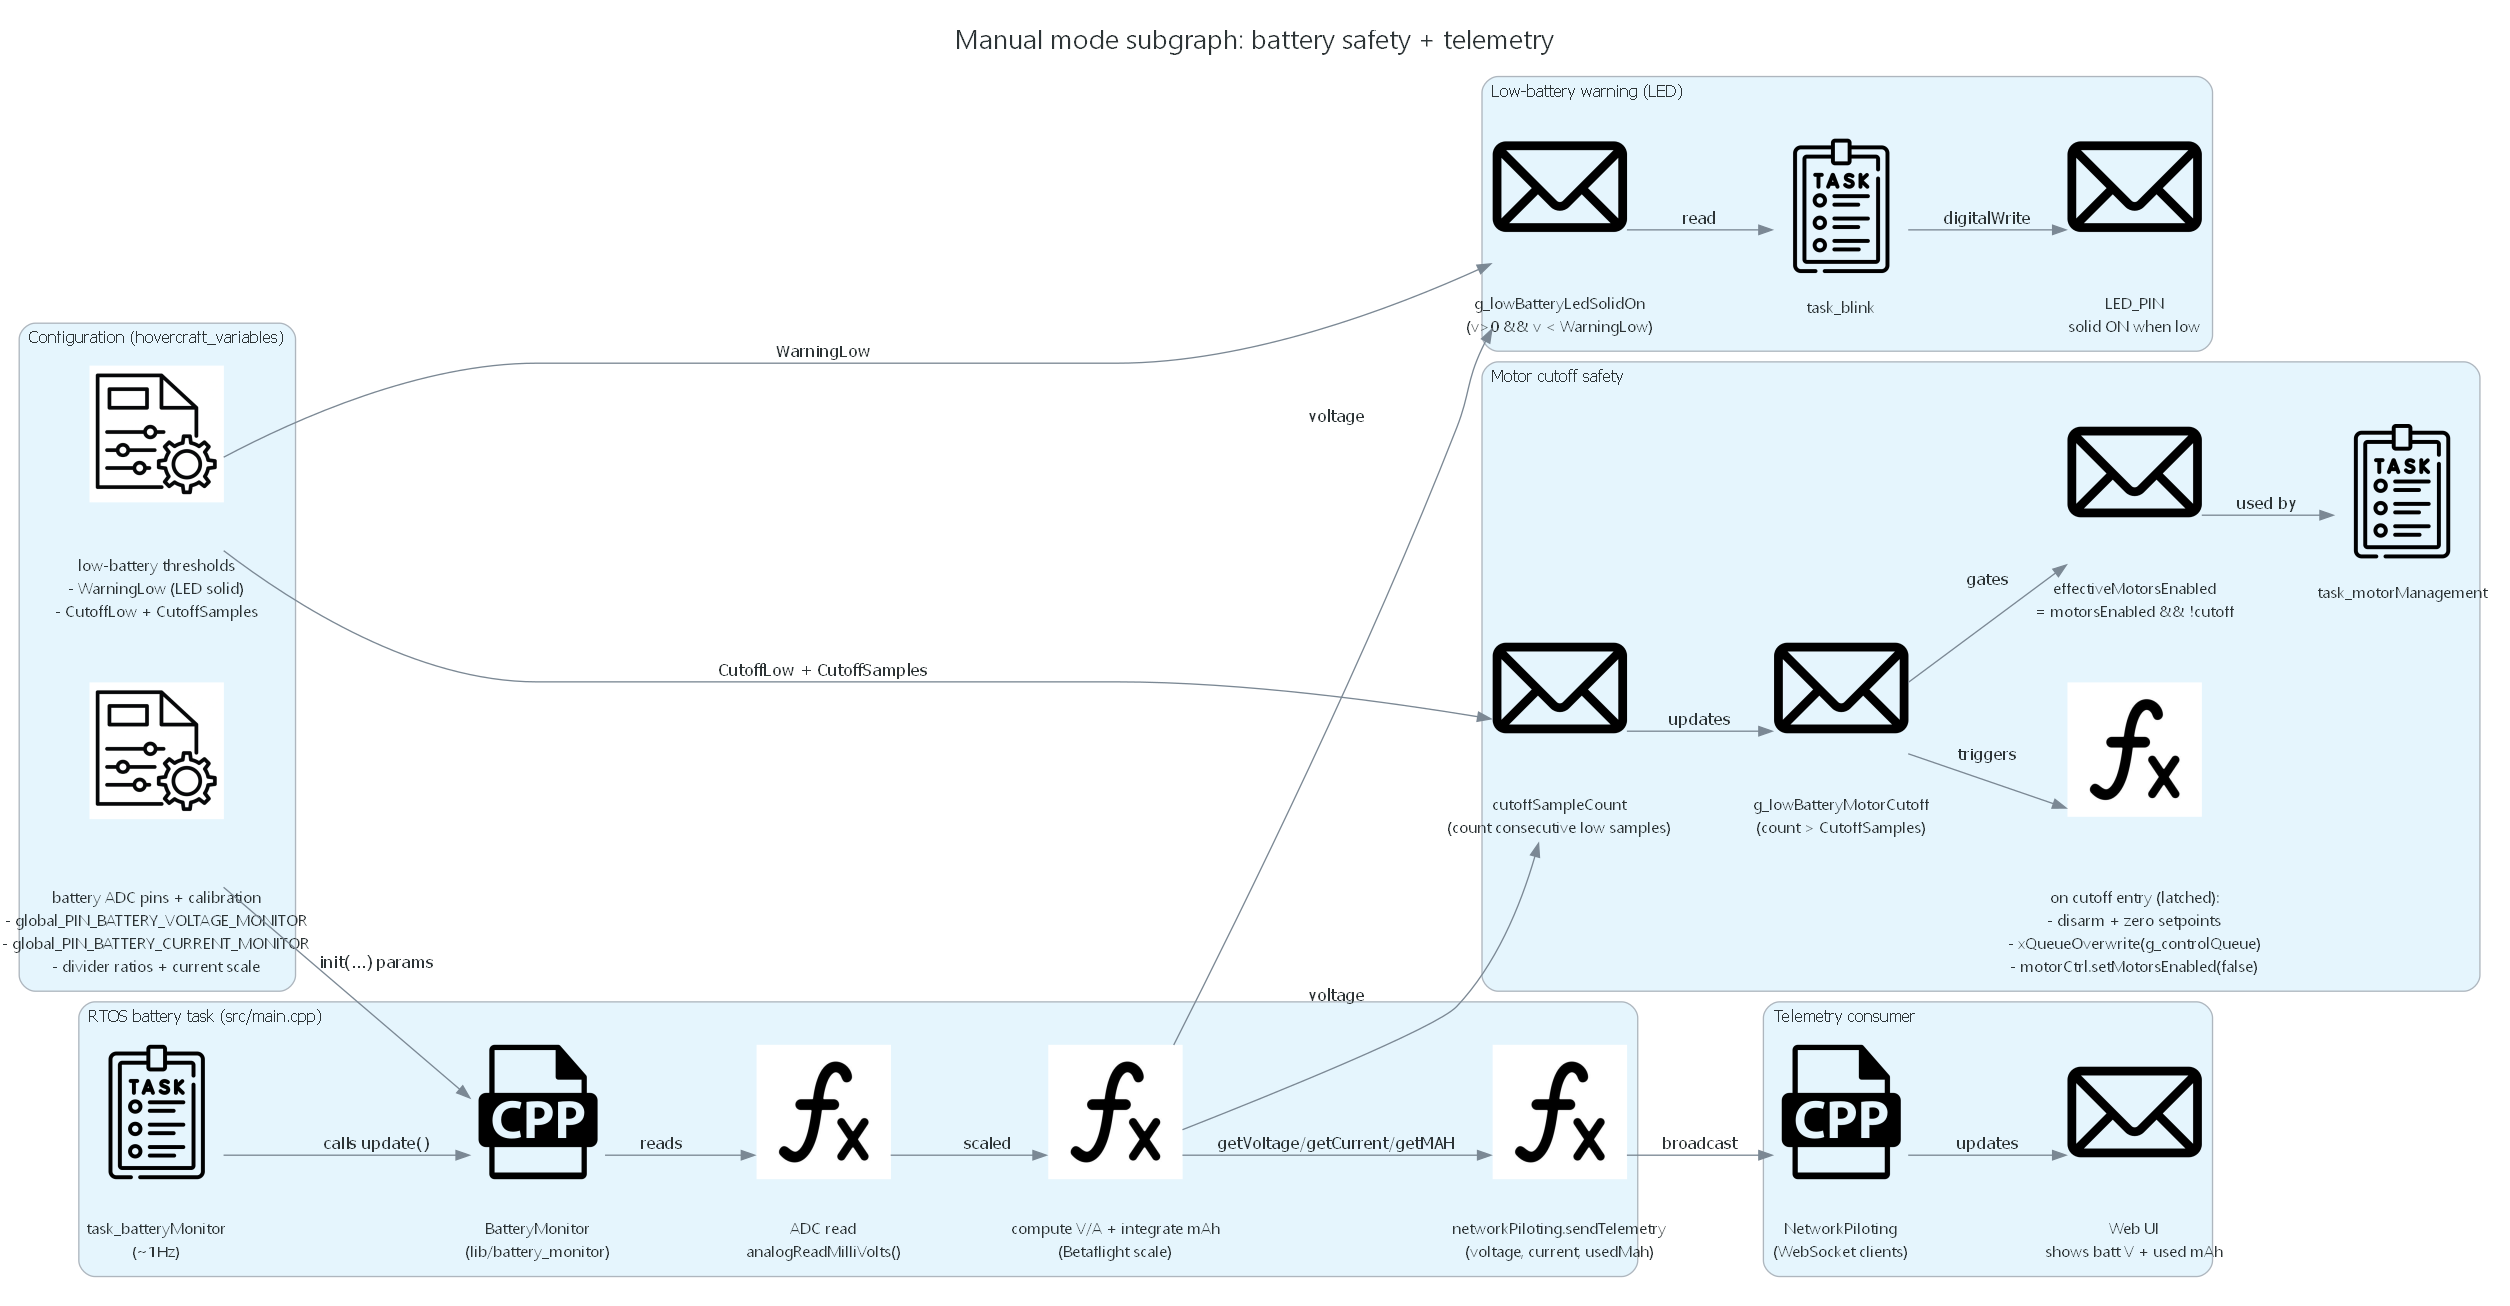
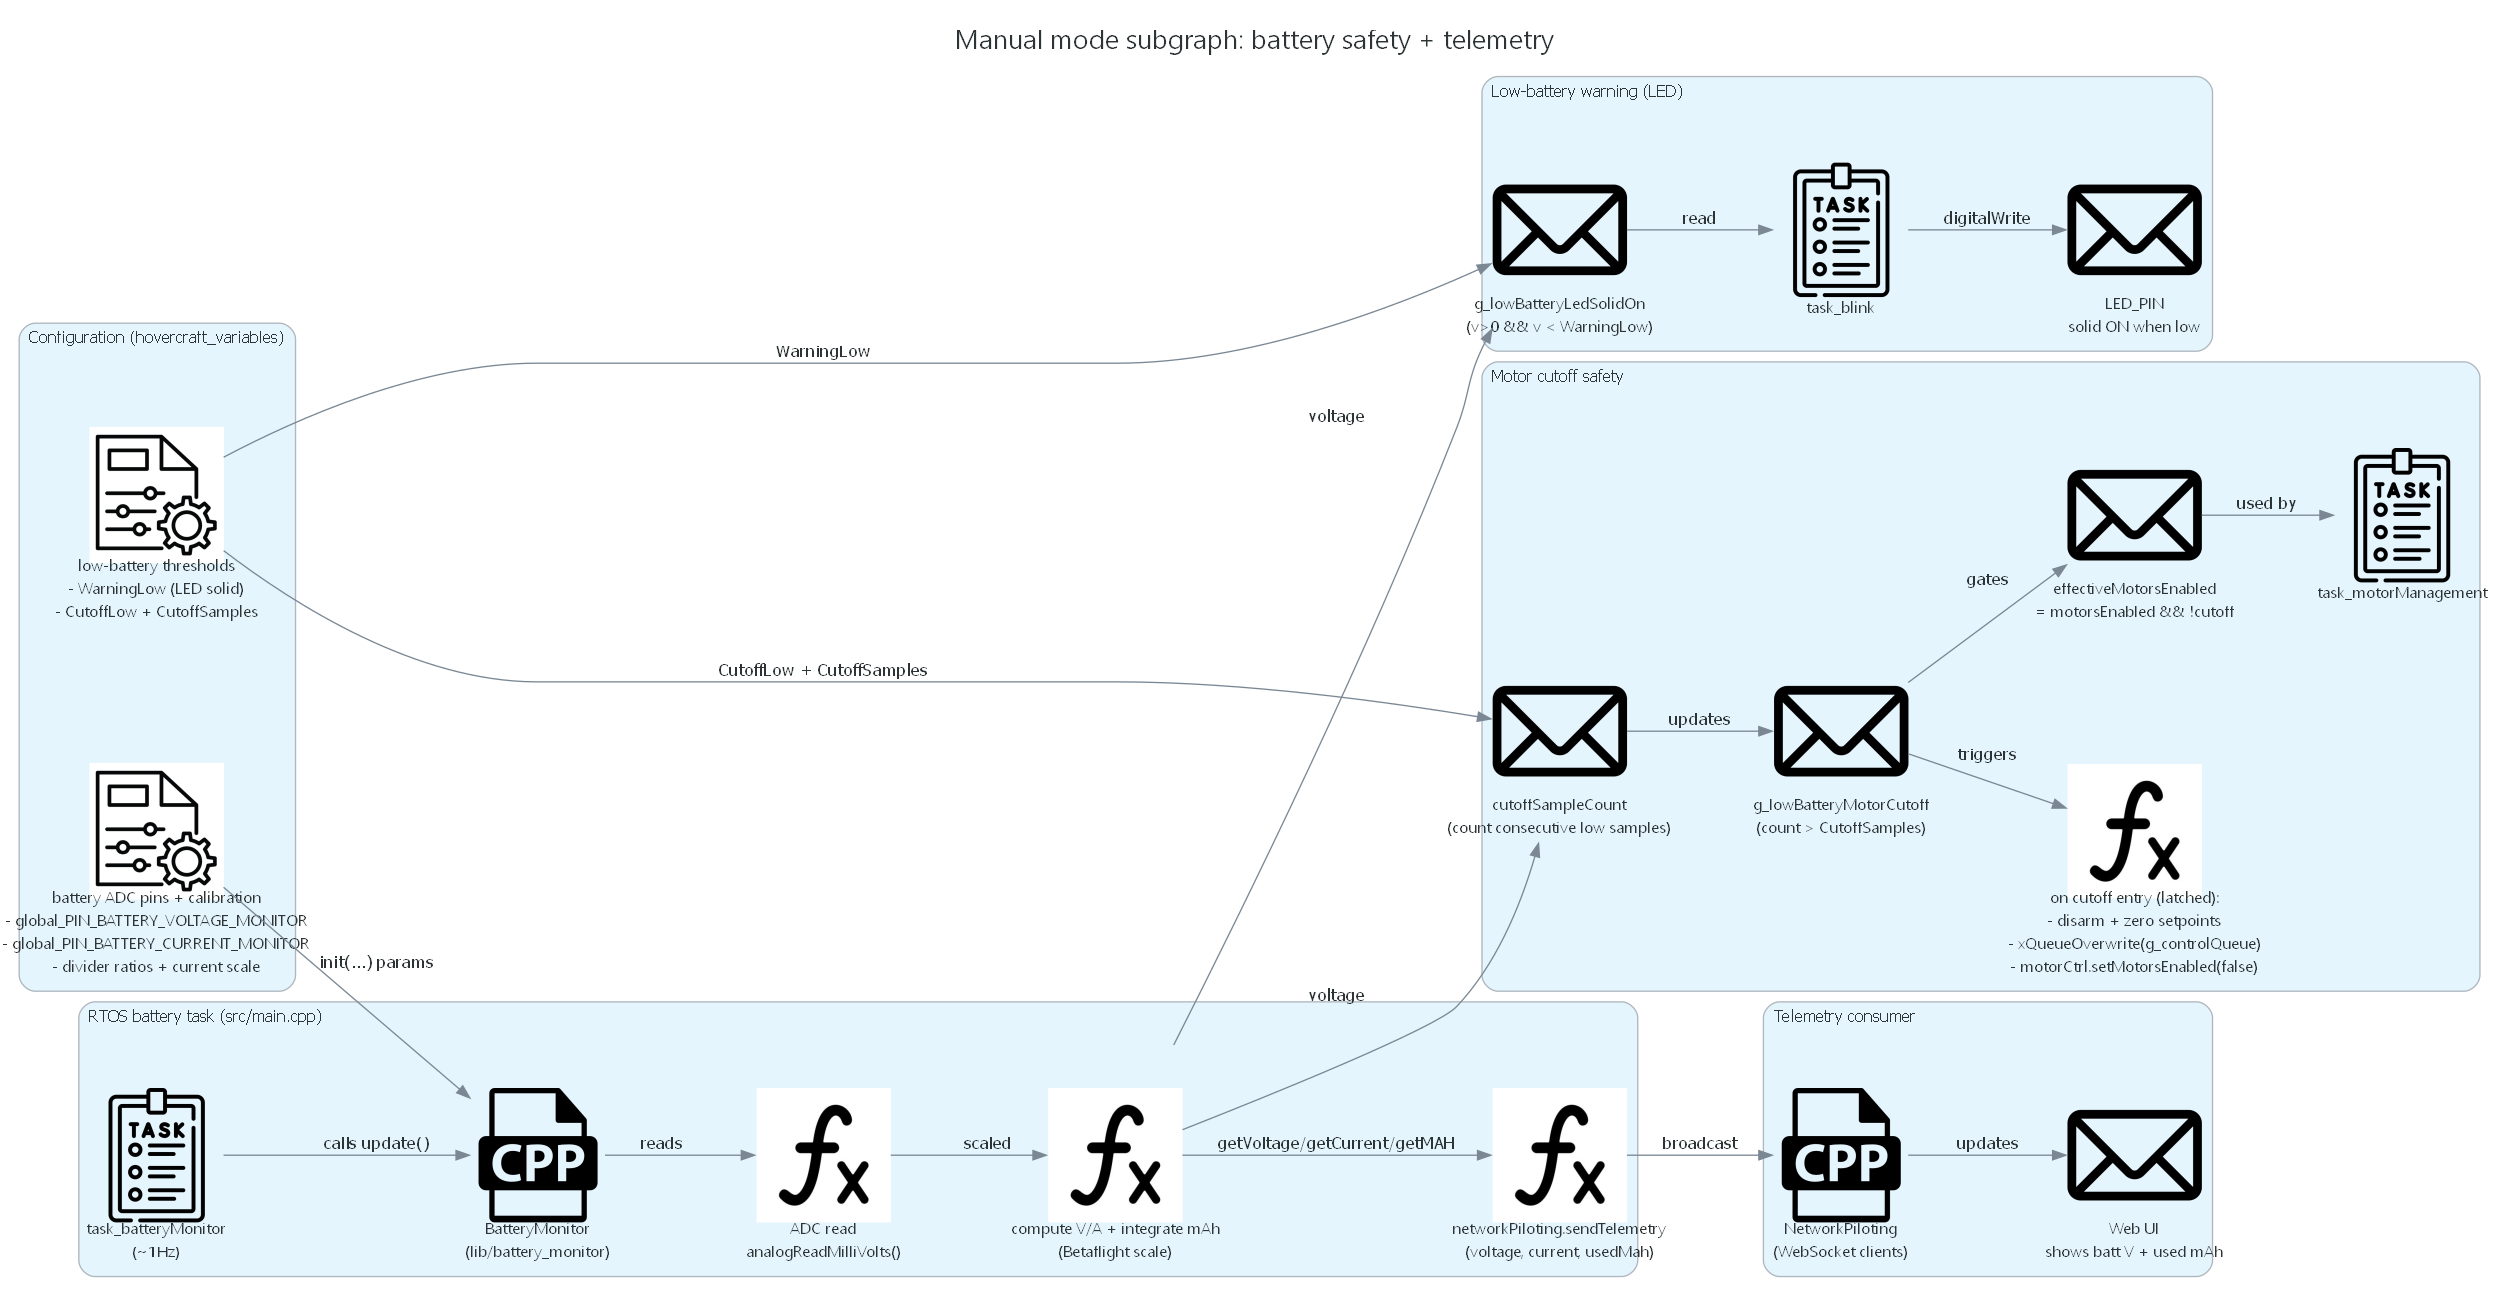
changed slight borders

diff --git a/3_Software/Firmware/projectStructure_Diagrams/generate_manual_mode_architecture.py b/3_Software/Firmware/projectStructure_Diagrams/generate_manual_mode_architecture.py
@@ -51,10 +51,10 @@ def _diagram_style() -> tuple[dict[str, str], dict[str, str], dict[str, str]]:
         "fontsize": "12",
         # Reduce icon/text collisions for image-based nodes (diagrams uses Graphviz images).
         "imagescale": "true",
-        "imagepos": "tc",
+        "imagepos": "mc",
         "labelloc": "b",
         # Add a bit of internal padding so the first label line doesn't touch the icon.
-        "margin": "0.03,0.02",
+        "margin": "1.0,1.0",
     }
     edge_attr = {"fontname": "Segoe UI", "fontsize": "11"}
     return graph_attr, node_attr, edge_attr
